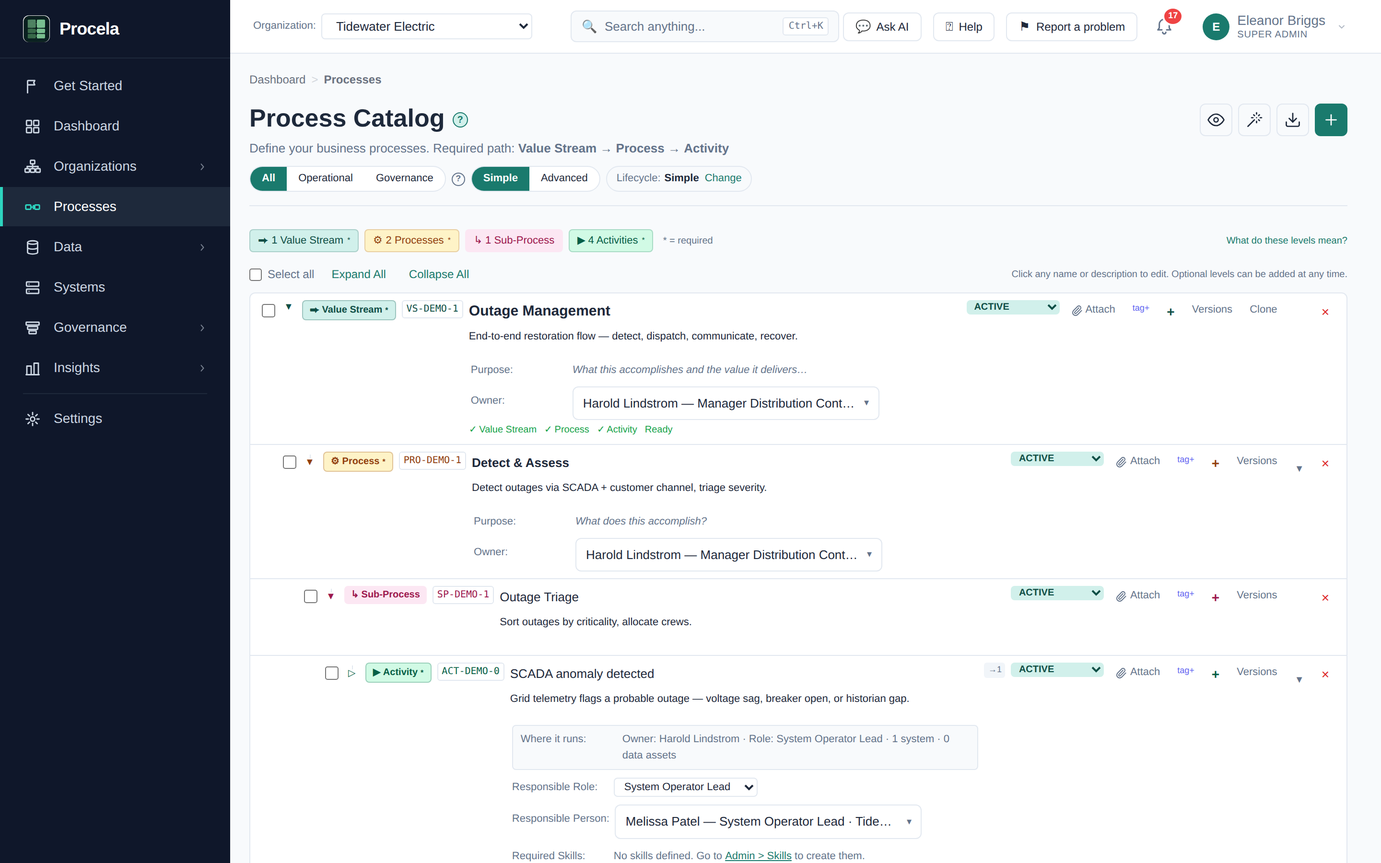
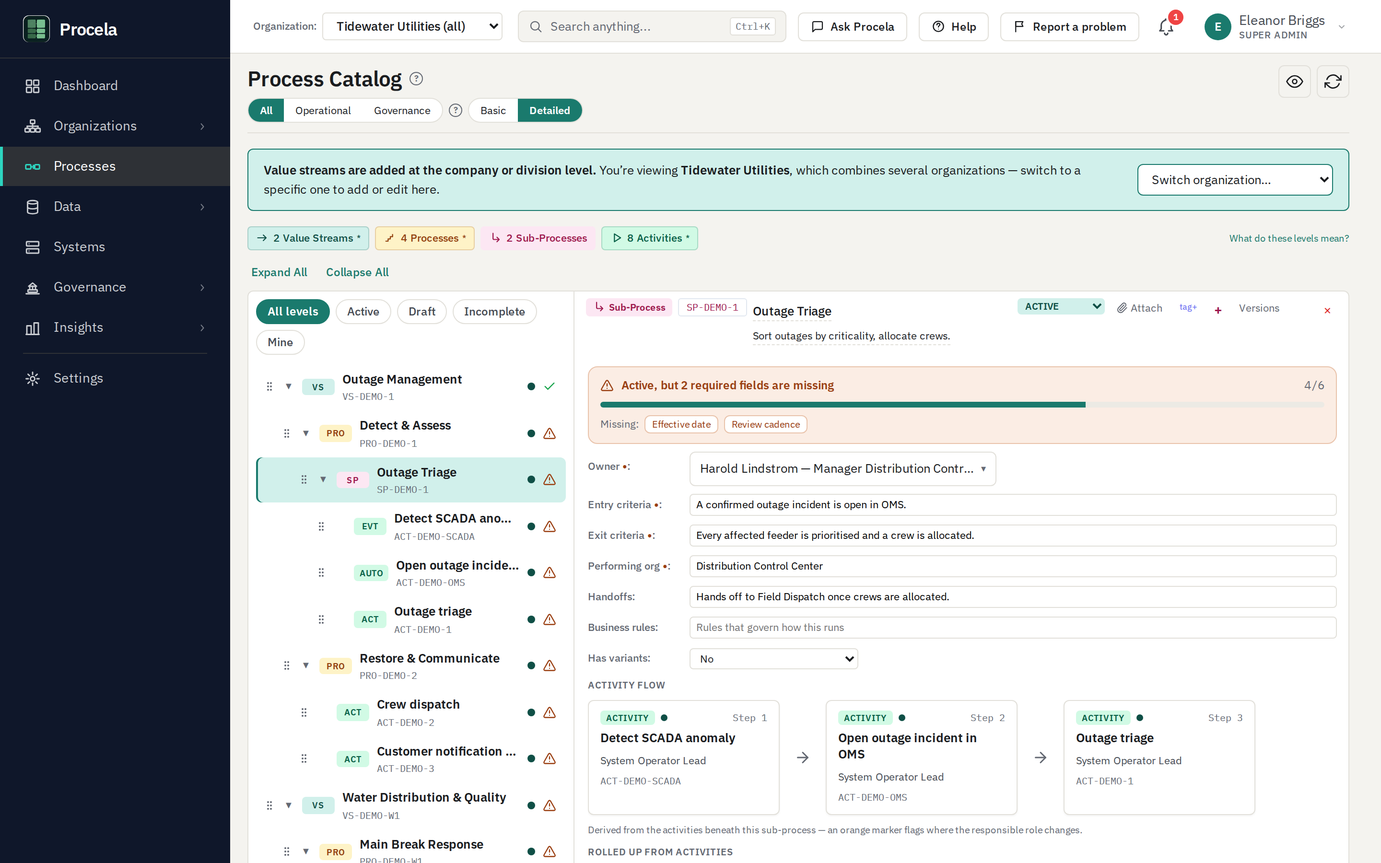
Docs: refresh for the two-pane catalog + click-consistency conventions (#798)
Bring the guides, references, and the catalog screenshot in line with
this session's shipped UI:

- HELP.md (Process Catalog): rewrite for the two-pane master-detail
  layout — left navigation tree (filter pills, per-row status dot +
  required-fields completeness, Needs Attention summary, legend) and the
  right detail pane; document the "require fields before activation"
  per-tenant policy; correct the level-count-chip wording.
- HELP images manifest + the process-catalog-tree.png screenshot:
  regenerated to the two-pane layout.
- TRAINING.md: walk the catalog as two-pane (select a node → detail on
  the right); add the activation-policy toggle to the lifecycle module.
- components/README.md + CLAUDE.md: document DataTable `onRowClick`, the
  single guarded row-click handler (interactive descendants auto-ignored,
  no per-control stopPropagation), and the dashed-underline click-to-edit
  affordance standard.
- UI_CONSISTENCY_AUDIT.md: record the click-consistency sweep (I1) and
  mark the inline-edit / tree-row slice of A1 addressed.

Claude-Session: https://claude.ai/code/session_01BkiUZ8PqyvCGVYEtKwYmjG

diff --git a/packages/backend/src/docs/HELP.md b/packages/backend/src/docs/HELP.md
@@ -62,16 +62,19 @@ Click **Customize** to control the layout. For each section you can reorder it (
 
 ### Process Catalog
 
-![Process Catalog page with a value stream expanded to show its child processes and one activity's Inputs / Outputs panel opened. The tree hierarchy Value Stream → Process → Activity is visible at a glance.](images/process-catalog-tree.png)
+![Process Catalog in its two-pane master-detail layout: a compact navigation tree on the left — filter pills (All levels / Active / Draft / Incomplete / Mine), level badges, and a per-row status dot plus required-fields completeness marker — with the selected node's record open in the detail pane on the right. Here the "Outage Triage" sub-process is selected, its detail showing an "Active, but 2 required fields are missing" banner above its fields and the rolled-up activity-flow board.](images/process-catalog-tree.png)
 
 - Hierarchical process catalog: Value Stream → Process → Activity (with optional Sub-Process and Task levels for detail).
+- Two-pane master-detail layout. A compact **navigation tree on the left** lists the hierarchy — each row shows a level badge, the name + code, a status dot, and a required-fields completeness read-out (`✓` when complete, `N/M` otherwise, an amber ⚠ when a node is Active but still incomplete). **Click a row to open its record in the detail pane on the right**, where all of its fields, roll-up panels, and the status / actions bar live. Drag a row by its handle to reorder or re-parent. The left nav stays clean (badge, name, status, completeness); everything you *do* to a node happens in the detail pane.
+- Nav filter pills. Above the tree, single-select pills quickly prune the nav while keeping ancestors visible: **All levels** (clear), **Active**, **Draft**, **Incomplete** (Active nodes still missing required fields), and **Mine** (nodes you own or are responsible for).
+- "Needs attention" summary. A small card under the nav counts **Active but incomplete**, **Drafts in progress**, and **Reviews due in 30 days** across the catalog; clicking a row applies the matching filter pill. A **Legend** beneath it explains the required-before-activation dot, the calculated-field padlock, and the `N/M` completeness read-out.
 - AI-powered Value Stream Wizard generates process hierarchies tailored to the active org, not just the industry. Running the wizard scoped to Tidewater Electric produces electric-utility processes (SCADA, outage management, transmission & distribution); scoping to Tidewater Water produces water-utility processes (treatment, distribution mains, wastewater). The active org's name, type, and description ride along with the industry to the AI prompt so output reflects this specific division rather than generic Utilities content. The result is cached per (industry + org) on the server — first user pays the 10–30 second Claude call, every subsequent run for the same org returns the same template instantly, and each division caches independently. A Cached / Fresh from AI badge plus a Specialised: <Org> chip on the review screen tells you what's been tailored; the Regenerate from AI button next to the standard Regenerate bypasses the cache and replaces the stored copy with a brand-new Claude generation.
 - Real progress bar while the wizard runs. The Generate call streams from Claude token by token, so the wait screen fills a progress bar and ticks through phased captions ("Analysing industry context…" → "Drafting value streams…" → "Adding processes…" → "Adding activities…" → "Finalising hierarchy…") instead of a spinner. Step bar at the top of the wizard shows Industry → Generate → Review → Apply so you always know where you are. Cache hits jump straight to the review screen without the progress animation.
 - Level-specific attributes: frequency, risk level, responsible role, automation level.
 - Status lifecycle: Draft → Active → Deprecated.
-- Level visibility toggles. The Legend chips ("1 Value Stream", "2 Processes", "1 Sub-Process", "4 Activities", …) double as show/hide switches — click a level to drop it from the tree. Hidden levels don't orphan their children: their descendants are promoted up, so hiding Sub-Process shows the Activities directly under their Process, and hiding everything but Value Streams and Activities gives a two-level read of the catalog. It's a per-view filter — nothing is deleted, and the counts still reflect the full hierarchy.
+- Level visibility toggles. The level-count chips at the top of the page ("1 Value Stream", "2 Processes", "1 Sub-Process", "4 Activities", …) double as show/hide switches — click a level to drop it from the nav. Hidden levels don't orphan their children: their descendants are promoted up, so hiding Sub-Process shows the Activities directly under their Process, and hiding everything but Value Streams and Activities gives a two-level read of the catalog. It's a per-view filter — nothing is deleted, and the counts still reflect the full hierarchy.
 
-![Animated walkthrough: with the process tree expanded, clicking the "Sub-Process" Legend chip drops that level and promotes its Activities directly under their Process; clicking it again brings the level back.](images/process-levels.gif)
+![Animated walkthrough: with the process tree expanded, clicking the "Sub-Process" level-count chip drops that level from the nav and promotes its Activities directly under their Process; clicking it again brings the level back.](images/process-levels.gif)
 - Operational / Governance lens. A segmented control (All · Operational · Governance) at the top filters which value streams show. Governance value streams (created by the governance template) carry a persisted domain classifier; business value streams are operational. The lens is per page — the Process Catalog always opens on All, and your choice here is independent of the lens on other pages.
 - Governance is enterprise-scoped. Governance value streams defined at the parent (company) level don't appear in a child division's Process Catalog by default. Enterprise governance is one program for the whole org tree — showing it under every division inflated their counts and rendered a locked row a division user couldn't act on. To reference the enterprise governance program from a division seat, switch Working in… up to the parent org. Governance a division defined for itself still shows normally.
 - Assigning an Owner or Stakeholders opens the shared person picker — search by name / title / org, or browse the org tree (Company → Division → Department) or governance groups. Every result shows the person's title and org path so two people with the same name are distinguishable. The same picker is used for owners, stewards, deputies, and group members across the app.
@@ -84,6 +87,7 @@ Click **Customize** to control the layout. For each section you can reorder it (
 - One-click demo data (Settings → Load demo data, super-admin). Seeds the Tidewater Utilities fixture in a single call — org tree (Tidewater Utilities + Electric + Water + Shared Services + a few departments), 24 named people including a Susan Chen persona, 8 systems (SCADA, CIS, AMI, OMS, GIS, Data Warehouse, LIMS, Hydraulic Model), 5 agents wired to their responsible people, 3 data domains with owners and stewards, 9 data assets (seven operational + two deliberately-planted orphans named *Legacy Billing Extract* and *Meter CSV Dump* so the Ask AI orphan-detection prompt returns something quotable), a 15-node process hierarchy for Outage Management with 7 activity↔asset mappings, 3 governance tasks assigned to Susan, 1 open ownership issue, 2 DQ rules (one PASSING on Customer Master, one FAILING on Generation Output — same asset as the seeded issue so the DQ tile and the issue tell one coherent story), a Weekly *Data Governance Committee* calendar event owned by Susan (so the *Upcoming Events* dashboard tile has real content), and **two edge connectors** — one *Tidewater Data Platform* connector (agent v1.2.0, ONLINE, five events in its activity feed) plus a second *Water Plant SCADA* connector still in the PAIRING state with a visible 8-digit code valid for 5 minutes so the demo can show both halves of the agent lifecycle. Meter Reads shows a fresh *Synced 5 min ago* chip on its detail page — enough to walk a prospect through the on-prem agent story without spinning up a real container. The seed also **pre-warms the AI wand cache** for Tidewater Electric and Tidewater Water — the "Generate processes" wand click during the demo returns instantly instead of stalling on a 10–30s Claude call. Idempotent: every row lands with a `demo-` prefix; a second click wipes the prior seed and reseeds so the fixture always converges on the same known state. Recommended pre-demo flow: click **Load Tidewater demo** → sign in as **Susan Chen** → walk the dashboard.
 - Sign-in white-labeling (Settings → Security → Sign-in page appearance, super-admin). Customises the sign-in card for users landing at your tenant URL — `/login?tenant=<slug>` in dev or a subdomain match in production — so the card reads as *"Sign in to Acme Corp"* with the customer's emoji glyph, display name, SSO button label, and primary color, instead of generic Procela. All fields are optional; empty ones fall back to platform defaults. Tenant slugs are unique across companies (3–64 lowercase letters, digits, or hyphens); primary color takes `#RRGGBB` hex. A preview panel in the Settings section renders the sign-in card exactly as it'll appear, so a super-admin can eyeball their branding before sharing the URL with a customer. When a tenant brand is active, a small "Powered by Procela" line sits under the wordmark so the platform stays credited without dominating the sign-in surface.
 - Change-management review workflow (Settings → Process & Asset Lifecycle → **Review**). One approver gate between Draft and Active — Draft → Pending Review → Active → Deprecated — with segregation of duties baked in: the submitter cannot approve their own change, but can withdraw it. Submitting for review takes an optional comment ("what are you changing?"); approving or requesting changes takes its own comment. The row shows a yellow "Pending review" banner with the submitter's name, timestamp, and comment while the change is in flight. Notifications land in the bell — the org sees "Change submitted for review: X" when a submission opens; the submitter sees "Change approved" or "Changes requested: …" when the reviewer acts. Two modes for two contexts: **Simple** for teams that trust each other; **Review** for change control; **Advanced** for regulated environments that need the four-state ceremony (Proposed → Under Review → Approved → Active). Switching modes migrates existing rows to a valid ground state on the target machine — no orphaned statuses.
+- Require fields before activation (Settings → Process & Asset Lifecycle). An optional per-tenant policy that turns the required-fields markers into a gate: when **Enforced**, a value stream / process / sub-process / activity can't move to **Active** (or, under the review workflow, be **Approved**) while any of its required fields are blank — the status change is refused with the list of what's missing. Left **Advisory** (the default), the required-field dots and the nav completeness read-out stay informational only. The setting resolves up the org tree, so a company-level policy covers its divisions.
 - Qualified-person check. When an activity carries a Responsible person and required skills, Procela compares the person's skillIds against the activity's requiredSkillIds. If anything's missing, an amber chip appears next to the Required Skills picker on the activity panel — "Responsible person lacks N required skill(s)" — with the missing names in the tooltip. The same gap surfaces as a Skill gaps count on the People table, so you can spot under-qualified assignments from either end. The check is per-org and updates live as you change the person or the required-skill list.
 - Cross-division link warning. When you add a data-asset or document link to an activity, Procela checks whether the target's owner org is on the same vertical axis as the activity's value-stream org (i.e. same org, ancestor, or descendant). If it isn't — typically a Tidewater Water activity reaching for a Tidewater Electric asset — a confirm pops first: "<Target> is owned by <Other Division>, but <Activity> sits in <This Division>. Cross-division links usually mean the wrong target was picked — pick again, or confirm if this is genuinely a shared dependency." The default is warn, not block: confirming creates the link normally; cancelling drops it. Cross-axis links to shared parent-company targets (a Water activity using the corporate Customer Master, or the enterprise Data Governance Charter) go through silently because the target is in scope by inheritance. Attachments skip the check since they're scoped to the activity directly.
 - Suggested data assets / systems / people (Phase 3 Discover). Each expanded activity card carries three small "Suggested…" panels beneath the Inputs/Outputs picker. Procela ranks candidates against the activity's name, description, declared systems, and required skills, and shows the top hits with a High / Medium / Low confidence chip and a one-line rationale ("Same system as the step (SAP Finance)", "Has 2 of 3 required skills"). Accept moves the suggestion into the right slot (asset → adds a mapping; system → appends to the step's systems; person → assigns as Responsible). Dismiss persists server-side via the learning loop — once dismissed, a candidate isn't suggested again for that step. Panels hide themselves entirely when nothing scores above the threshold, so steps that are already fully mapped don't accumulate dead UI.

diff --git a/docs/UI_CONSISTENCY_AUDIT.md b/docs/UI_CONSISTENCY_AUDIT.md
@@ -29,15 +29,23 @@ drift with edits.
 
 ## P1 — Accessibility (highest user impact)
 
-- **☐ A1 [HIGH] Keyboard-inaccessible controls.** `<div/span/tr onClick>`
+- **⏳ A1 [HIGH] Keyboard-inaccessible controls.** `<div/span/tr onClick>`
   used as controls with no `role="button"`, `tabIndex`, or key handler —
   keyboard/SR users cannot reach them. Load-bearing cases: org-tree
   select (`PeoplePage`), domain 360 (`DataDomainsPage`), EnterpriseView
   node inspect, gap/section toggles (`GapDetectionPage`,
   `GovernanceProgramPage`), and **every inline-edit trigger** (Systems,
   DataAssets, PersonDetail, DocFields, IOPanel, TreeNode, ValueStreamWizard,
-  Comparison). Model to copy: `components/InfoTip.tsx`, `Card.tsx`
+  Comparison). Model to copy: `lib/a11y.ts` `clickable()` (returns
+  `role`/`tabIndex`/`onKeyDown`), `components/InfoTip.tsx`, `Card.tsx`
   (`onClick` auto-flips role/keyboard). *Largest a11y gap; a real sweep.*
+  **Progress — the click-consistency sweep (see I1 below) closed the
+  inline-edit and tree-row slice:** the management trees (Organizations,
+  Governance Groups), the catalog nav rows, and the inline-edit triggers
+  (`DocFields` InlineEdit, `PersonDetail` InlineField; Systems /
+  Glossary `InlineCellEdit` already carried `role="button"`) now route
+  through `clickable()`. Remaining: the org-tree select, EnterpriseView
+  inspect, and gap/section toggles.
 - **☐ A2 [MED] Form labels not associated.** 292 `<label>` but only 3
   `htmlFor`; ~250 styled sibling labels announce no field name. All CRUD
   forms. Fix: `id` + `htmlFor` (or wrap, or `aria-label`).
@@ -113,6 +121,26 @@ drift with edits.
   route) → `renderNavIcon('/agents')` (GovernanceGroups, DamaRoles,
   GovernanceGroupDetail); hand-rolled tables with no overflow wrapper
   (`OrphanAssetsPage`, `AuditLogPage`).
+
+## P1 — Interaction consistency  ✅ (click-consistency sweep)
+
+- **✅ I1 [HIGH] "How you click to view / edit" drifted across surfaces.**
+  A four-pass sweep made the open-a-row and edit-a-value gestures uniform:
+  - **Tree rows** — the management trees (Organizations, Governance Groups)
+    and the catalog nav now select/open on a whole-row click via
+    `clickable()`, matching the catalog nav established earlier.
+  - **Inert link-teal names** — names styled like links that weren't links
+    (Calendar, Policies) were de-coloured; bare-`onClick` name spans
+    (Agents, People) were routed through `clickable()`.
+  - **Entity-list rows open their detail on whole-row click.** `DataTable`
+    gained `onRowClick`; both it and `trigger:'row-click'` share one handler
+    guarded against interactive descendants (so embedded controls need no
+    `stopPropagation`). Data Assets / Systems open their modal on row-click;
+    Agents / Decision Rights flipped to row-click expansion (matching SOPs /
+    Data Quality / Policies). Lists with no detail stay inert.
+  - **Inline-edit affordance** — one dashed-underline "click to edit" cue
+    everywhere (`InlineCellEdit`, `InlineEdit`, `InlineField`); dropped on
+    locked fields. Documented in `/CLAUDE.md` and the components README.
 
 ---
 

diff --git a/CLAUDE.md b/CLAUDE.md
@@ -540,6 +540,19 @@ pages must adopt them from day one. Do NOT hand-roll equivalents.
   entry), and non-entity-list tables
   (reports, the RACI matrix, the audit log, static reference tables,
   nested detail sub-tables).
+  **Whole-row click opens the row's detail** — a list whose detail is a
+  modal / viewer passes `onRowClick(row)` (Data Assets → the 360 modal,
+  Systems → the system modal); a list whose detail is inline passes
+  `expansion` with `trigger:'row-click'` (Agents, Decision Rights, SOPs,
+  Data Quality, Policies). Both paths share one guarded handler that
+  ignores clicks originating inside an interactive descendant
+  (`button, a, input, select, textarea, label, [role="button"]`), so a
+  row's own controls work without each needing to `stopPropagation`.
+  Keep the row's name a focusable `<button>` / `clickable()` element —
+  it's the keyboard path to the detail. Lists with no row-level detail
+  (Skills, Tasks, Issues, Calendar, Mappings, Lineage, Connections,
+  Audit Log) stay inert. Do NOT re-expose a teal name-link as the only
+  way to open a row.
 - `useRowSelection` — the row-selection hook wired into `DataTable`'s
   `selection` prop. Build it over the *filtered* rows so select-all
   matches what's visible. Do NOT hand-roll a `selectedIds` Set +
@@ -562,6 +575,17 @@ pages must adopt them from day one. Do NOT hand-roll equivalents.
   style; wire the same 8 properties through this component.
 - `<WizardProgress>` — the step-bar at the top of any multi-step
   flow (Process Wizard, Sync Connection Wizard).
+- **Click-to-edit affordance** — an inline-editable value at rest wears a
+  **dashed underline** (`borderBottom: '1px dashed var(--color-border)'`,
+  rendered `inline-block` so a wrapped value keeps one underline) so it
+  reads as editable before hover, and drops the underline when locked /
+  read-only. This is the one treatment across the app — `InlineCellEdit`
+  (Systems, Business Glossary), `InlineEdit` (Process Catalog name /
+  description), `InlineField` (Person detail). An inline-edit trigger
+  (span / div turned editable) must also be keyboard-reachable — wire it
+  through `clickable()` (`role="button"` + `tabIndex` + key handler), not
+  a bare `onClick`. Do NOT ship a click-to-edit value with only a
+  `cursor:pointer` cue.
 
 **Colours — CSS variables only for semantic use:**
 

diff --git a/packages/frontend/src/components/README.md b/packages/frontend/src/components/README.md
@@ -290,11 +290,35 @@ complex content; the migrated pages exercise the full range:
 
 `trigger` controls how a row expands. Default `'caret'`: only the leading
 caret button toggles. `'row-click'`: clicking anywhere on the row toggles,
-and the caret stays a keyboard-focusable affordance. In `'row-click'` mode
-DataTable `stopPropagation`s the cells it owns (caret + selection
-checkbox) — but any interactive control you put inside a `column.render`
-(action buttons, links) must `stopPropagation` itself so a click on it
-doesn't also toggle the row.
+and the caret stays a keyboard-focusable affordance.
+
+**`onRowClick` — whole-row click opens the row's detail.** When a list's
+"detail" is a modal / viewer rather than an inline expansion (Data Assets →
+the 360 modal, Systems → the system detail modal), pass `onRowClick(row)` to
+make the whole `<tr>` a pointer target. It coexists with `expansion` — the
+caret column can still expand inline detail (Data Assets does both: row-click
+opens the 360 modal, the caret expands bound columns).
+
+Both whole-row behaviours (`onRowClick` **and** `trigger:'row-click'`) run
+through **one guarded handler**: a click whose target is inside an
+interactive descendant — `button, a, input, select, textarea, label,
+[role="button"]` — is ignored. So the row's own controls (the name link,
+inline-edit `<select>`s, the action icons) keep working **without each
+needing to `stopPropagation`**. DataTable also `stopPropagation`s the cells
+it owns (caret + selection checkbox). Keyboard users reach the detail
+through the focusable name control in the row, so keep the name a real
+`<button>` / `clickable()` element, not plain text.
+
+```tsx
+<DataTable … onRowClick={(asset) => open360(asset.id)} />   {/* Data Assets */}
+<DataTable … onRowClick={(sys) => setViewingSystemId(sys.id)} />  {/* Systems */}
+```
+
+The entity lists split cleanly: **Data Assets** and **Systems** open a modal
+on row-click; **Agents, Decision Rights, SOPs, Data Quality, Governance
+Policies** expand inline via `trigger:'row-click'`. Lists with no row-level
+detail (Skills, Tasks, Issues, Calendar, Mappings, Lineage, Connections,
+Audit Log) stay inert.
 
 **People is the one *entity* list deliberately left hand-rolled.** The
 reason is one specific shape: a **pinned quick-add row** — a persistent

diff --git a/docs/TRAINING.md b/docs/TRAINING.md
@@ -293,10 +293,18 @@ The badge on the review screen says *Specialised: <Org>*.
 
 With *Working in…* on **Tidewater Electric**:
 
-- Expand a value stream → process → sub-process → activity.
-- Click an **Activity** node. The right panel shows level-specific
-  fields: Owner, Responsible Role, Responsible Person, Systems,
-  Required Skills, Inputs/Outputs, Status, Frequency, Risk Level.
+- The catalog is a **two-pane** layout: a navigation tree on the left,
+  the selected record's detail on the right. Use the caret (or **Expand
+  All**) to open a value stream → process → sub-process → activity in
+  the nav.
+- **Click an Activity row** in the left nav. Its record opens in the
+  **detail pane on the right**, with level-specific fields: Owner,
+  Responsible Role, Responsible Person, Systems, Required Skills,
+  Inputs/Outputs, Status, Frequency, Risk Level. Each nav row carries a
+  status dot and a required-fields completeness read-out (`✓` / `N/M` /
+  an amber ⚠ when Active but incomplete); the **filter pills** above the
+  nav (All levels / Active / Draft / Incomplete / Mine) and the **Needs
+  Attention** summary below it help you find what to work on.
 - Concrete example — on an **Outage Management → Outage triage**
   activity, set:
   - **Responsible Role** = `System Operator Lead`
@@ -441,6 +449,16 @@ Two things Procela enforces you'll want to demo:
 Switch back to **Simple** mode when you're done to keep the rest
 of the training uncluttered — the migration confirmation dialog
 walks any Pending Review rows back to Draft.
+
+**Require fields before activation (optional).** The same **Settings →
+Process & Asset Lifecycle** screen has an *Activation policy* toggle. Set
+it to **Enforced** and Procela won't let a node go **Active** (or
+**Approved**, under review mode) while any required field is blank —
+the status change is refused with the list of what's missing, so the
+required-field dots in the catalog become a real gate rather than a hint.
+Leave it **Advisory** (the default) to keep them informational. The
+policy resolves up the org tree, so setting it on the company applies to
+every division.
 
 ### 3.8 Phase 3 suggestion panels
 

diff --git a/packages/backend/src/docs/images/README.md b/packages/backend/src/docs/images/README.md
@@ -11,7 +11,7 @@ If a file referenced by the markdown is missing, the guide renders a striped pla
 | Filename | Section | What to capture |
 |---|---|---|
 | `dashboard-hero.png` | 3. Dashboard | Dashboard page, top-third crop. Show the full-width **My Dashboard** row (the "Needs Attention" triage queue beside the 14-day "Schedule") and the half-width **Tasks** / **Issues** sections beneath — each list header carrying its open count and an inline weekly-trend sparkline. The dashboard is you-scoped now; there is no Overview KPI row to capture. Sign in as **Susan Chen** on the Tidewater Utilities fixture so the personal sections are populated. |
-| `process-catalog-tree.png` | 4. Processes → Process Catalog | Process Catalog tree with one value stream expanded to at least one Activity. Ideally show the Inputs / Outputs panel open on one activity so a reader sees where data linkage happens. |
+| `process-catalog-tree.png` | 4. Processes → Process Catalog | Process Catalog in its two-pane master-detail layout: the navigation tree (filter pills, per-row status dot + required-fields completeness) on the left with a node selected, and that node's record open in the detail pane on the right. |
 | `data-assets-list.png` | 5. Data → Data Assets | Data Assets list with several rows. **Must include at least one row carrying a green "Live" / "Synced N min ago" chip** next to the name (connector-sourced freshness). Governance-tier badges and health scores should be visible in the columns. |
 | `connectors-panel.png` | 6. Systems → On-prem connectors | Settings → On-prem connectors panel with at least one paired connector row. Status chip green (Online), systems column populated, "Add connector" button visible in the header. Empty-state also OK — it just tells a different story. |
 | `connector-pairing.png` | 6. Systems → On-prem connectors | The pairing-code modal after clicking "Add connector" and hitting Generate. The eight-digit code should dominate visually; the `docker run` hint underneath should be readable. |
